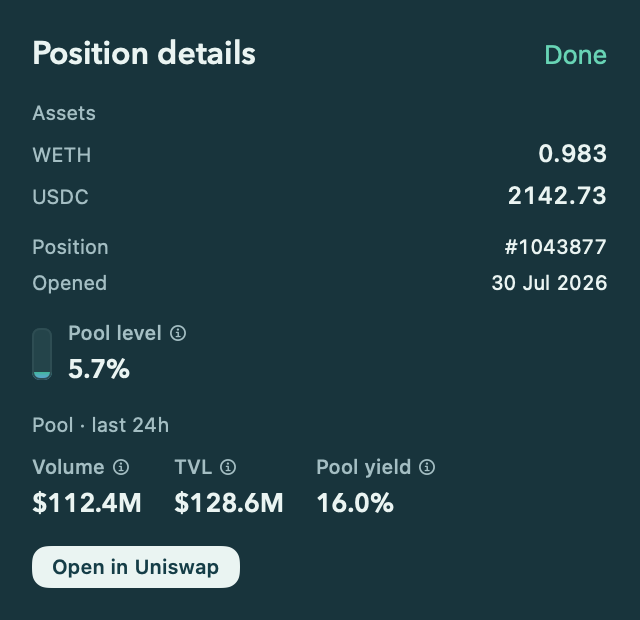
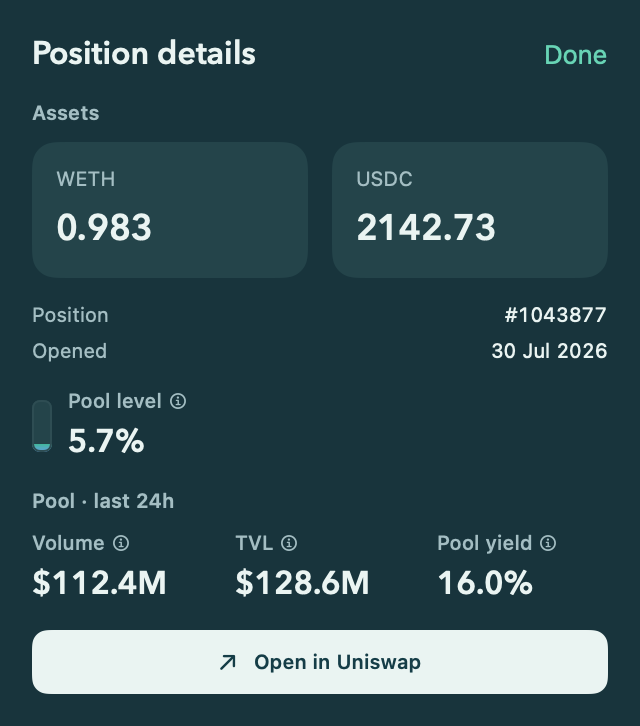
style: bring balance tiles to compact mac details

diff --git a/Sources/PoolserKit/Presentation/PositionDetailsView.swift b/Sources/PoolserKit/Presentation/PositionDetailsView.swift
@@ -46,11 +46,11 @@ struct PositionDetailsView: View {
                 Text("Assets").font(.headline)
                 if position.poolStateError == nil {
                     if typeSize.isAccessibilitySize {
-                        sheetHoldings(horizontal: false)
+                        holdings(horizontal: false)
                     } else {
                         ViewThatFits(in: .horizontal) {
-                            sheetHoldings(horizontal: true)
-                            sheetHoldings(horizontal: false)
+                            holdings(horizontal: true)
+                            holdings(horizontal: false)
                         }
                     }
                 } else {
@@ -82,25 +82,25 @@ struct PositionDetailsView: View {
         .padding(24)
     }
 
-    private func sheetHoldings(horizontal: Bool) -> some View {
+    private func holdings(horizontal: Bool, compact: Bool = false) -> some View {
         let inverted = PositionPresentation(position).isInverted
         let layout = horizontal ? AnyLayout(HStackLayout(alignment: .top, spacing: 12)) : AnyLayout(VStackLayout(alignment: .leading, spacing: 12))
         return layout {
-            sheetHolding(inverted ? position.sym1 : position.sym0, amount: inverted ? position.amount1Label : position.amount0Label, allowsWrapping: !horizontal)
-            sheetHolding(inverted ? position.sym0 : position.sym1, amount: inverted ? position.amount0Label : position.amount1Label, allowsWrapping: !horizontal)
+            holdingTile(inverted ? position.sym1 : position.sym0, amount: inverted ? position.amount1Label : position.amount0Label, allowsWrapping: !horizontal, compact: compact)
+            holdingTile(inverted ? position.sym0 : position.sym1, amount: inverted ? position.amount0Label : position.amount1Label, allowsWrapping: !horizontal, compact: compact)
         }
     }
 
-    private func sheetHolding(_ symbol: String, amount: String, allowsWrapping: Bool) -> some View {
-        VStack(alignment: .leading, spacing: 8) {
-            Text(symbol).font(.subheadline).foregroundStyle(palette.secondaryText)
-            Text(amount).font(PoolTypography.amount(24, relativeTo: .title2))
+    private func holdingTile(_ symbol: String, amount: String, allowsWrapping: Bool, compact: Bool) -> some View {
+        VStack(alignment: .leading, spacing: compact ? 6 : 8) {
+            Text(symbol).font(compact ? .caption : .subheadline).foregroundStyle(palette.secondaryText)
+            Text(amount).font(PoolTypography.amount(compact ? 18 : 24, relativeTo: compact ? .callout : .title2))
                 .fixedSize(horizontal: !allowsWrapping, vertical: true)
                 .textSelection(.enabled)
         }
         .frame(maxWidth: .infinity, alignment: .leading)
-        .padding(16)
-        .background(palette.control, in: RoundedRectangle(cornerRadius: 16))
+        .padding(compact ? 12 : 16)
+        .background(palette.control, in: RoundedRectangle(cornerRadius: compact ? 12 : 16))
     }
 
     private func sheetDetail(_ title: String, value: String) -> some View {
@@ -146,12 +146,17 @@ struct PositionDetailsView: View {
                     .buttonStyle(.plain).foregroundStyle(palette.fees)
             }
 #endif
-            VStack(alignment: .leading, spacing: 6) {
-                Text("Assets").font(.caption).foregroundStyle(palette.secondaryText)
+            VStack(alignment: .leading, spacing: 8) {
+                Text("Assets").font(.caption.weight(.semibold)).foregroundStyle(palette.secondaryText)
                 if position.poolStateError == nil {
-                    let inverted = PositionPresentation(position).isInverted
-                    holding(inverted ? position.sym1 : position.sym0, amount: inverted ? position.amount1Label : position.amount0Label)
-                    holding(inverted ? position.sym0 : position.sym1, amount: inverted ? position.amount0Label : position.amount1Label)
+                    if typeSize.isAccessibilitySize {
+                        holdings(horizontal: false, compact: true)
+                    } else {
+                        ViewThatFits(in: .horizontal) {
+                            holdings(horizontal: true, compact: true)
+                            holdings(horizontal: false, compact: true)
+                        }
+                    }
                 } else {
                     Text("Unavailable").font(.callout).foregroundStyle(palette.secondaryText)
                 }
@@ -168,18 +173,21 @@ struct PositionDetailsView: View {
                 HStack(spacing: 8) {
                     PoolGauge(level: level)
                     PositionMetric(title: "Pool level", value: formatPercent(level),
-                                   explanation: poolLevelHelp)
+                                   explanation: poolLevelHelp, valueFont: PoolTypography.amount(16, relativeTo: .callout))
                 }
             }
             if position.hasPoolStats {
                 VStack(alignment: .leading, spacing: 8) {
-                    Text("Pool · last 24h").font(.caption).foregroundStyle(palette.secondaryText)
+                    Text("Pool · last 24h").font(.caption.weight(.semibold)).foregroundStyle(palette.secondaryText)
                     poolStats()
                 }
             }
             if let onOpen {
-                Button("Open in Uniswap", action: onOpen)
-                    .buttonStyle(GraphiteStrongButtonStyle())
+                Button(action: onOpen) {
+                    Label("Open in Uniswap", systemImage: "arrow.up.right")
+                        .frame(maxWidth: .infinity, minHeight: 24)
+                }
+                .buttonStyle(GraphiteStrongButtonStyle())
             }
         }
         .padding(16)
@@ -194,34 +202,26 @@ struct PositionDetailsView: View {
     }
 
     private func poolStatMetrics(prominent: Bool) -> some View {
-        Group {
+        let valueFont: Font? = prominent ? nil : PoolTypography.amount(16, relativeTo: .callout)
+        return Group {
             if let volume = position.volumeUSD24h {
                 PositionMetric(title: "Volume", value: PositionPresentation.compactUSD(volume),
-                               explanation: "The pool’s trading volume over the last 24 hours.", prominent: prominent)
+                               explanation: "The pool’s trading volume over the last 24 hours.", prominent: prominent, valueFont: valueFont)
             }
             if let tvl = position.tvlUSD {
                 PositionMetric(title: "TVL", value: PositionPresentation.compactUSD(tvl),
-                               explanation: "Total value of liquidity in the pool.", prominent: prominent)
+                               explanation: "Total value of liquidity in the pool.", prominent: prominent, valueFont: valueFont)
             }
             if let yield = position.feeAPR {
                 PositionMetric(title: "Pool yield", value: String(format: "%.1f%%", yield),
-                               explanation: "Estimated annual yield if the pool’s last 24 hours repeated for a year: trading volume × fee rate ÷ TVL. This is the pool’s estimate, distinct from your realized APR. An out-of-range position earns none of it.", prominent: prominent)
+                               explanation: "Estimated annual yield if the pool’s last 24 hours repeated for a year: trading volume × fee rate ÷ TVL. This is the pool’s estimate, distinct from your realized APR. An out-of-range position earns none of it.", prominent: prominent, valueFont: valueFont)
             }
         }
+        .frame(maxWidth: .infinity, alignment: .leading)
     }
 
     private var poolLevelHelp: String {
         "All-time fees (claimed + unclaimed) divided by the position’s current value. Claimed fees use current token prices; changes in prices or liquidity also change this percentage."
-    }
-
-    private func holding(_ symbol: String, amount: String) -> some View {
-        HStack(alignment: .firstTextBaseline, spacing: 12) {
-            Text(symbol).font(.caption).foregroundStyle(palette.secondaryText)
-            Spacer(minLength: 0)
-            Text(amount).font(.callout.weight(.medium).monospacedDigit())
-                .fixedSize(horizontal: false, vertical: true)
-                .textSelection(.enabled)
-        }
     }
 
     private func detail(_ title: String, value: String) -> some View {

diff --git a/Sources/PoolserKit/Presentation/GraphitePositionCard.swift b/Sources/PoolserKit/Presentation/GraphitePositionCard.swift
@@ -386,6 +386,7 @@ struct PositionMetric: View {
     let explanation: String
     var tint: Color? = nil
     var prominent = false
+    var valueFont: Font? = nil
     @State private var showingExplanation = false
     @Environment(\.colorScheme) private var scheme
 
@@ -399,7 +400,7 @@ struct PositionMetric: View {
                 }
                 .font(prominent ? .subheadline : .caption2).foregroundStyle(palette.secondaryText)
                 .fixedSize(horizontal: prominent, vertical: true)
-                Text(value).font(PoolTypography.amount(prominent ? 22 : 13, relativeTo: prominent ? .title2 : .callout))
+                Text(value).font(valueFont ?? PoolTypography.amount(prominent ? 22 : 13, relativeTo: prominent ? .title2 : .callout))
                     .foregroundStyle(tint ?? palette.primaryText)
                     .fixedSize(horizontal: prominent, vertical: true)
             }

diff --git a/docs/BRAND.md b/docs/BRAND.md
@@ -79,7 +79,7 @@ Reference captures from the implemented shared cards: [light](screenshots/redesi
 
 Details is a compact supplementary panel: holdings, position ID, opening date, position pool level and pool statistics. Do not repeat the pair heading, chain/version/fee tier, range status, prices, position value, unclaimed fees, claimed amount, realized APR or daily fee history from the main card. Use a generic Position details heading; token symbols remain as units beside holdings. Show detailed read errors when present.
 
-On macOS, let the popover fit its content instead of reserving a fixed 400-point height. On iOS, align the content to the top of the native sheet below its navigation bar. Ordinary text and data fit without a scroll container. Keep explanations for pool yield and pool level behind accessible info controls rather than permanent paragraphs. Retain a scrolling fallback when large accessibility text, long error messages or a short screen cannot fit the content in the available space (up to 520 points on Mac); never crop data or actions to remove scrolling. Keep Open in Uniswap as a separate action.
+On macOS, use the same balance tiles, evenly distributed pool statistics and full-width Open in Uniswap action as iOS, at compact desktop proportions: 16-point outer padding, 12-point section spacing, 12-point tile padding and corners, scaled 18-point balance amounts and 16-point statistics. Keep the popover's title and Done control, 320-point ideal width and 360-point maximum width. Let its height fit the content instead of reserving a fixed 400-point height. On iOS, align the content to the top of the native sheet below its navigation bar. Ordinary text and data fit without a scroll container. Keep explanations for pool yield and pool level behind accessible info controls rather than permanent paragraphs. Retain a scrolling fallback when large accessibility text, long error messages or a short screen cannot fit the content in the available space (up to 520 points on Mac); never crop data or actions to remove scrolling. Keep Open in Uniswap as a separate action.
 
 Compact macOS Details references: [light](screenshots/redesign/position-details-light.png), [dark](screenshots/redesign/position-details-dark.png).
 
